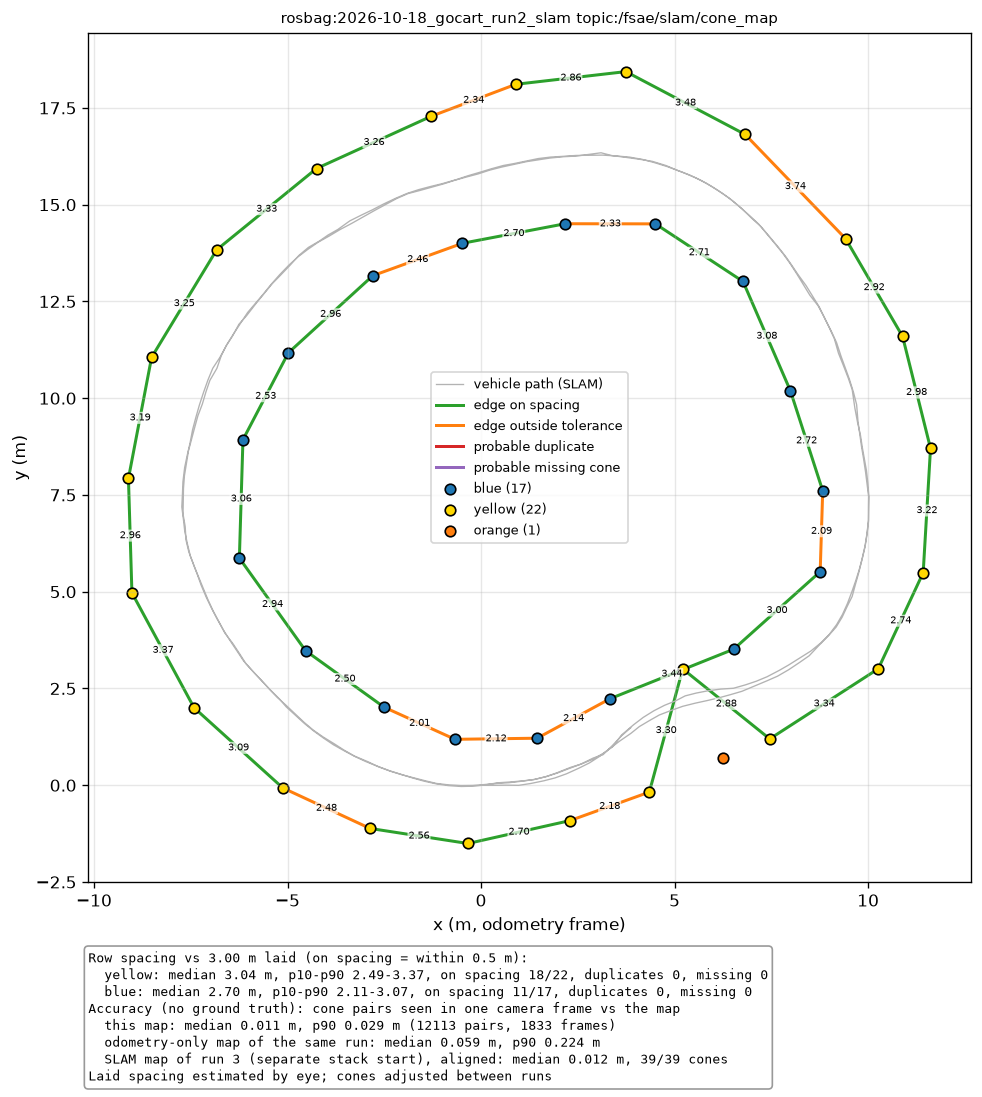
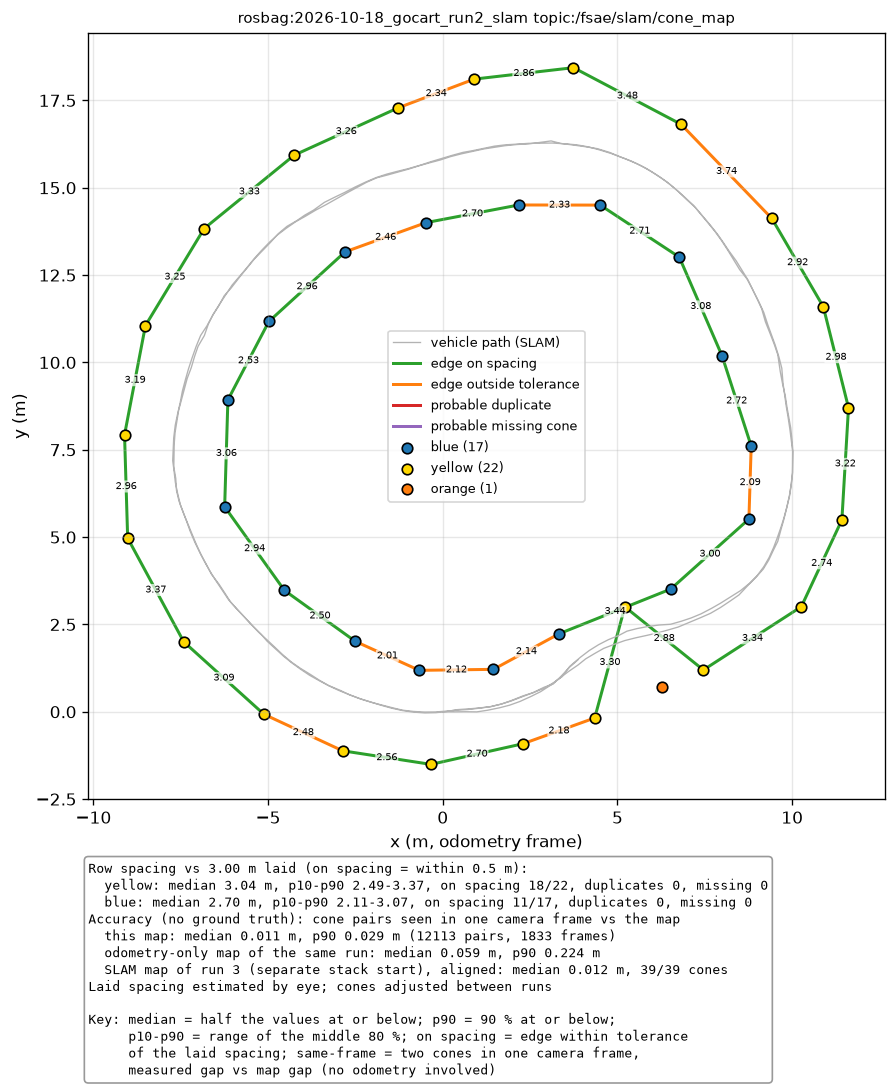
Explain the statistics and map terms used by the cone tools and docs
- Glossary: median, p10/p90, same-frame accuracy, edge, on spacing, duplicate and
  missing cone, odometry, odometry-only map, SLAM, keyframe, cone spacing check.
- debugging_tools (cone spacing check) and offline_guide (rosbag results): a Terms
  list under "How to read".
- Preview results box carries its own key; cone_spacing_check prints one and defines
  the terms in its docstring; same_frame_accuracy documents median and p90.
- Go-kart track: preview regenerated, README defines the terms it uses.

diff --git a/tuner/tools/rosbag_cone_map.py b/tuner/tools/rosbag_cone_map.py
@@ -343,7 +343,9 @@ def same_frame_accuracy(cones, det_bag, topic=DEFAULT_TOPIC, min_range=1.0, max_
     `max_pose_dt`), refined by a small rigid fit onto the map, and associated to map cones
     of the same colour within 0.4 m. The refinement only helps association: pairwise
     distances do not change under a rigid motion, so it cannot flatter the result.
-    Returns {'pairs', 'messages', 'median', 'p90'} or None when nothing could be paired."""
+    Returns {'pairs', 'messages', 'median', 'p90'} or None when nothing could be paired.
+    median: half the pair errors are at or below it. p90: 90 % are at or below it, so it
+    shows how bad the bad pairs get without being set by the single worst one."""
     m = {g: np.array([c[0] for c in cones[g]]).reshape(-1, 2) for g in ('blue', 'yellow')}
     if not len(m['blue']) and not len(m['yellow']):
         return None
@@ -454,6 +456,12 @@ def plot(path_png, cones, stats, title, spacing_reference=None, notes=()):
             ax.plot([], [], '-', color=col, lw=1.8, label=lab)
     box.extend(notes)
     if box:
+        # The box is read on its own (shared as an image), so it carries its own key.
+        box += ['',
+                'Key: median = half the values at or below; p90 = 90 % at or below;',
+                '     p10-p90 = range of the middle 80 %; on spacing = edge within tolerance',
+                '     of the laid spacing; same-frame = two cones in one camera frame,',
+                '     measured gap vs map gap (no odometry involved)']
         # Below the axes, so it never hides cones.
         ax.text(0.0, -0.08, '\n'.join(box), transform=ax.transAxes, fontsize=8, va='top',
                 family='monospace', bbox=dict(boxstyle='round', fc='white', ec='0.6'))

diff --git a/tuner/tools/cone_spacing_check.py b/tuner/tools/cone_spacing_check.py
@@ -7,6 +7,11 @@ compares every edge length with REFERENCE_SPACING_M. Use it on a map rebuilt fro
 
 How to read the result
 ----------------------
+Terms: an *edge* is the line between two neighbouring cones of one row, and its length
+is their gap. *Median* is the middle edge length once sorted (half are shorter). *p10* and
+*p90* are the lengths 10 % and 90 % of edges are at or below, so "p10-p90" is the range the
+middle 80 % fall in. *Median error* is the median length minus the reference.
+
 - **On spacing (within TOLERANCE_M):** the map agrees with the layout there.
 - **Short edge, under DUPLICATE_M:** almost always one cone mapped twice (a drift or
   association failure), not two real cones.
@@ -191,6 +196,8 @@ def main(argv=None):
     path, rows = load_rows(a.map)
     max_edge = MAX_EDGE_FACTOR * a.reference
     print(f'{path}\nreference {a.reference:.2f} m, tolerance {a.tolerance:.2f} m')
+    print('(median: half the edges at or below; p10-p90: range of the middle 80 % of edges; '
+          'error: median minus reference)')
     edges = {}
     records = []
     for c in a.colours:

diff --git a/docs/reference/glossary.md b/docs/reference/glossary.md
@@ -19,19 +19,22 @@ Symbols are as in the code (`e_y`, `e_psi`, `kappa`). Names in `code font` are i
 | CMA-ES | The evolutionary optimiser the offline auto-tuner (`tuner/offline_tuner.py`) uses to search weights. | [offline_guide.md](../guides/offline_guide.md) |
 | Composite score | The single number that ranks a rollout, from 13 normalised metrics (`sim/scoring.py`). Lower is better. Runs that fail land above `CONSTRAINT_FLOOR` (10.0). | [tuning.md](../guides/tuning.md) |
 | Condensing | Eliminating the predicted states from the NMPC's QP so only the inputs remain as variables (a dense QP). | [nmpc.md](../controllers/nmpc.md) |
+| Cone spacing check | `tuner/tools/cone_spacing_check.py`: joins each cone row (blue, yellow) neighbour to neighbour and compares every edge with the spacing the cones were laid at. Also drawn on a rosbag track's preview. | [debugging_tools.md](../guides/debugging_tools.md#cone-spacing-check-tunertoolscone_spacing_checkpy) |
 | Corner factor | The 0 (straight) to 1 (full corner) fraction from the current `|kappa|`, `1 - 1 / (1 + k |kappa|)`, that blends the LTV-QP weights. | [control_mechanisms.md](control_mechanisms.md#corner-factor-scheduler-ltv-qp-weights-follow-the-current-curvature) |
 | Delay compensation | Rolling the measured state forward through commands already issued but not yet reflected in the pose, by `n_delay` steps. | [lmpc.md](../controllers/lmpc.md) |
 | DNF | "Did not finish": a rollout that leaves the track, stalls, hits a run of solver failures, or does not cover `COMPLETION_THRESHOLD` (0.98) of the path. Scored above `CONSTRAINT_FLOOR`. | [tuning.md](../guides/tuning.md) |
-| `du_max` | The hard per-tick slew limit on steering and acceleration commands: 180 degrees/s times `dt`, and 0.6 m/s² per tick. | [control_mechanisms.md](control_mechanisms.md#slew-rate-limit-du_max-identical-on-both-sides-at-180-degs) |
 | `dt` | Control tick period, 0.05 s (20 Hz). | [lmpc.md](../controllers/lmpc.md) |
+| `du_max` | The hard per-tick slew limit on steering and acceleration commands: 180 degrees/s times `dt`, and 0.6 m/s² per tick. | [control_mechanisms.md](control_mechanisms.md#slew-rate-limit-du_max-identical-on-both-sides-at-180-degs) |
+| Duplicate cone (map) | A row edge shorter than 1 m: almost always one physical cone mapped twice (odometry drift or a failed association), flagged red. | [debugging_tools.md](../guides/debugging_tools.md#cone-spacing-check-tunertoolscone_spacing_checkpy) |
 | `e_psi` | Heading error: car yaw minus reference path direction, wrapped to `(-pi, pi]`. | [error_states.md](error_states.md) |
 | `e_v` | Speed error: current speed minus target speed. | [error_states.md](error_states.md) |
 | `e_y` | Lateral error: signed perpendicular distance from the path, positive to the left. | [error_states.md](error_states.md) |
-| FSDS | The AirSim/Unreal 3D simulator (the outer repo): a real physics engine driving a simulated car. The live ROS 2 stack (`fsae_planning`) drives in it. Closer to the real car than the offline rollout, and itself not confirmed accurate. | [integration_guide.md](../fsds/integration_guide.md) |
-| `fsae_autonomous` | The production repo that goes on the real car. It lags the simulation repos by design and receives only deliberate, tested changes. | [offline_live_parity.md](offline_live_parity.md) |
-| `fsae_planning` | The ROS 2 workspace (`ros2/src/fsae_planning/`) holding the live planning and control code and the track data. The simulation-side development tree. | [offline_live_parity.md](offline_live_parity.md) |
+| Edge (cone map) | The straight line between two neighbouring cones of the same row, as the cone spacing check chains them. Its length is the gap between those cones. | [debugging_tools.md](../guides/debugging_tools.md#cone-spacing-check-tunertoolscone_spacing_checkpy) |
 | Frenet frame | Describing the car by distance along the path plus a perpendicular offset, instead of global X, Y. Both controllers measure error this way. | [error_states.md](error_states.md) |
 | Friction ellipse (circle) | A tyre has one shared grip budget: longitudinal force used reduces lateral force available. The plant applies it per wheel. The NMPC hard-constraint version is disabled. | [vehicle_physics.md](vehicle_physics.md) |
+| `fsae_autonomous` | The production repo that goes on the real car. It lags the simulation repos by design and receives only deliberate, tested changes. | [offline_live_parity.md](offline_live_parity.md) |
+| `fsae_planning` | The ROS 2 workspace (`ros2/src/fsae_planning/`) holding the live planning and control code and the track data. The simulation-side development tree. | [offline_live_parity.md](offline_live_parity.md) |
+| FSDS | The AirSim/Unreal 3D simulator (the outer repo): a real physics engine driving a simulated car. The live ROS 2 stack (`fsae_planning`) drives in it. Closer to the real car than the offline rollout, and itself not confirmed accurate. | [integration_guide.md](../fsds/integration_guide.md) |
 | `fsds_simulator/` | The staging mirror of the `fsae_planning` workspace inside this repo. Files present in both must match. It is not a live copy. | [offline_live_parity.md](offline_live_parity.md) |
 | Gauss-Newton SQP | The NMPC's solve method: repeatedly linearise the nonlinear model and solve a QP for a step direction. | [nmpc.md](../controllers/nmpc.md) |
 | Heading-lead profile | A precomputed shaped reference heading that starts the turn early (`psi_target`). LTV-QP only, off by default. | [control_mechanisms.md](control_mechanisms.md#precomputed-shaped-heading-lead-profile-ltv-qp-only-off) |
@@ -39,14 +42,21 @@ Symbols are as in the code (`e_y`, `e_psi`, `kappa`). Names in `code font` are i
 | Inherit sentinel (`-1.0`) | An `nmpc_*` override left at `-1.0` inherits the LTV-QP field of the same name. | [control_mechanisms.md](control_mechanisms.md#which-settings-affect-which-controller) |
 | Jerk cost | A penalty on the second difference of the inputs (`nmpc_rjerk_delta`), which is small for a steady turn and large for a wobble. | [tuning.md](../guides/tuning.md) |
 | `kappa` | Path curvature in 1/m (1 / radius). Positive for a left bend. | [error_states.md](error_states.md) |
+| Keyframe (SLAM) | A pose the SLAM node stores in its graph, added every 0.3 m or 15 degrees of travel rather than every message. Its cone sightings are attached to it. | [offline_guide.md](../guides/offline_guide.md#tracks-rebuilt-from-a-real-vehicle-rosbag) |
 | `launch_all.sh` | The shell script (`ros2/launch_all.sh`) that starts FSDS, the bridge and the ROS 2 nodes. Its shortlist can override dataclass and YAML defaults. | [integration_guide.md](../fsds/integration_guide.md) |
 | LTV-QP (LMPC) | The linear time-varying MPC (`MPCController`): one convex QP per tick against a linear bicycle model in path-error coordinates. | [lmpc.md](../controllers/lmpc.md) |
 | Mechanism | An extra layer on a controller's core solve, enabled and tuned independently, targeting one failure mode. | [control_mechanisms.md](control_mechanisms.md) |
+| Median | The middle value once sorted: half the values are at or below it. Unlike the mean, a few extreme values do not move it. | this page, p10/p90 |
+| Missing cone (map) | A row edge longer than 1.5x the laid spacing: a cone absent from the map, or a real gap in the layout (a start gate), flagged purple. | [debugging_tools.md](../guides/debugging_tools.md#cone-spacing-check-tunertoolscone_spacing_checkpy) |
 | `MPCParams`, `NMPCParams` | The dataclasses (`mpc_params.py`, `nmpc_params.py`) that hold every live tuning weight and flag. `settings/` mirrors them offline. | [offline_live_parity.md](offline_live_parity.md) |
 | NMPC | The nonlinear Frenet-frame MPC (`NMPCController`), selected by `use_nmpc`. | [nmpc.md](../controllers/nmpc.md) |
+| Odometry | The vehicle's own running estimate of its position and heading (on the kart, the ZED camera's visual-inertial odometry). Never corrected by the cones, so it drifts and occasionally jumps. | [offline_guide.md](../guides/offline_guide.md#tracks-rebuilt-from-a-real-vehicle-rosbag) |
+| Odometry-only map | A cone map built by placing every detection with the odometry pose and merging repeats. Inherits every odometry error. | [offline_guide.md](../guides/offline_guide.md#tracks-rebuilt-from-a-real-vehicle-rosbag) |
 | Offline rollout | The headless closed-loop simulation (`sim/rollout/core.py`) driving the 25-state plant. What the auto-tuner and `python -m tuner.validation.recorded_map_rollout` run. It is what other docs mean by "the offline sim". | [offline_guide.md](../guides/offline_guide.md) |
+| On spacing | A row edge within the tolerance (default 0.5 m) of the laid spacing, drawn green. | [debugging_tools.md](../guides/debugging_tools.md#cone-spacing-check-tunertoolscone_spacing_checkpy) |
 | Oracle profile | The precomputed path and speed files for an already-recorded track, used in place of the live planner. | [reference_path_and_speed.md](reference_path_and_speed.md) |
 | OSQP | The QP solver both controllers use. | [lmpc.md](../controllers/lmpc.md) |
+| p10, p90 (percentiles) | p90: 90 % of the values are at or below it, so it describes the bad cases without being set by the single worst one. p10: 10 % are at or below it. "p10-p90" is the range the middle 80 % of values fall in. | this page, Median |
 | Pacejka (MF94) | The Magic Formula tyre force model, an S-shaped curve of force against slip. | [vehicle_physics.md](vehicle_physics.md) |
 | Parity | The rule that the live and offline copies of any planning or control logic, weight, plant constant or scoring constant stay numerically identical, kept by hand because the two trees cannot import each other. | [offline_live_parity.md](offline_live_parity.md) |
 | Plant | The simulated car being controlled (`model/vehicle_physics/`), the ground truth against which controllers are tested. | [vehicle_physics.md](vehicle_physics.md) |
@@ -58,10 +68,12 @@ Symbols are as in the code (`e_y`, `e_psi`, `kappa`). Names in `code font` are i
 | Real-time iteration (RTI) | One SQP iteration per tick, warm-started from the previous tick, so convergence carries across ticks. | [nmpc.md](../controllers/nmpc.md) |
 | Recorded map | A track captured from a real lap (cone map plus derived files), stored in `ros2/src/fsae_planning/tracks/<name>/`. The standard test track is `comp_test_map_3`. | [reference_path_and_speed.md](reference_path_and_speed.md) |
 | Reversal | A steering command that changes sign tick to tick. The reversal penalty targets it. | [control_mechanisms.md](control_mechanisms.md#soft-steering-reversal-penalty-costlier-steering-changes-when-steering-is-near-zero) |
+| Same-frame accuracy | An accuracy check that needs no ground truth: for two cones seen in the same camera frame, the measured distance between them against the same two cones' distance in the map. One frame involves no odometry, so it tests the map's local shape. Reported as median and p90 of the absolute difference. | [offline_guide.md](../guides/offline_guide.md#tracks-rebuilt-from-a-real-vehicle-rosbag) |
 | Saturation (steering) | The share of ticks the steering command sits at the mechanical limit (25 degrees). A key sim-to-real gap metric: about 4.8% offline against 21.1% live. | [simulator_fidelity.md](simulator_fidelity.md) |
 | `settings/` | The offline package of constants (`general`, `noise`, `planner`, `lmpc`, `nmpc`, `solver`, `scoring`). Consumers use `import settings; settings.X` so runtime overrides reach them. | [offline_live_parity.md](offline_live_parity.md) |
 | Sim-to-real gap | The measured difference between offline and live behaviour. Partly explained by FSDS's lateral-acceleration ceiling, partly open. | [simulator_fidelity.md](simulator_fidelity.md) |
 | Slack | A penalised relaxation variable that lets a soft constraint (track boundary) be violated at a cost instead of going infeasible. | [nmpc.md](../controllers/nmpc.md) |
+| SLAM (`cone_landmark_mapper`) | Simultaneous localisation and mapping: `fsae_autonomous`'s node that builds the cone map and corrects the vehicle's pose each time a known cone is re-seen. Corrects slow drift, not sudden jumps. | [offline_guide.md](../guides/offline_guide.md#tracks-rebuilt-from-a-real-vehicle-rosbag) |
 | Slew rate | How fast a signal may change. The steering slew limit is `du_max`. | [control_mechanisms.md](control_mechanisms.md#slew-rate-limit-du_max-identical-on-both-sides-at-180-degs) |
 | Slip angle, slip ratio | Slip angle is the angle between where a tyre points and where it travels (sideways force). Slip ratio is wheel speed against ground speed (forward and backward force). | [vehicle_physics.md](vehicle_physics.md) |
 | Standstill | Near-zero speed, where tyre slip is ill-defined. The NMPC fades tyre force with speed and adds steering damping (`nmpc_standstill_*`). | [nmpc.md](../controllers/nmpc.md) |

diff --git a/docs/guides/offline_guide.md b/docs/guides/offline_guide.md
@@ -303,7 +303,7 @@ Two ways to build the map:
 
 - **Method:** each detection on `/cone_detection_fused` is placed in the odometry frame with the `car_pose` carried in the same message, then repeats are clustered per colour (median position, at least `--min-obs` sightings). Only detections 1-7 m away are used, because the camera's range error grows with the square of distance.
 - **Output:** `--name <base>` writes `<TRACKS_DIR>/<base>_<bag date>/cone_map.json`, with `source: "rosbag:..."`, and next to it a preview named after the run, `preview_<bag folder>.png`.
-- **The preview is automatic.** It shows the cones, the vehicle path, every row edge checked against the laid spacing (`--spacing-reference`, default 3.0 m, the `cone_spacing_check` default) and a results box:
+- **The preview is automatic.** Terms in its results box (median, p10-p90, p90, on spacing, same-frame accuracy) are defined under "How to read these numbers" below and in the [glossary](../reference/glossary.md). It shows the cones, the vehicle path, every row edge checked against the laid spacing (`--spacing-reference`, default 3.0 m, the `cone_spacing_check` default) and a results box:
   - spacing per row (median, on-spacing count, duplicates, missing cones);
   - **accuracy without ground truth:** distances between two cones seen in the same camera frame against the same two cones in the map (no odometry involved). In SLAM mode the odometry-only map of the same run is scored too;
   - any `--note "<line>"` given (repeatable), for results measured elsewhere.
@@ -369,6 +369,12 @@ python3 -m tuner.tools.raceline_optimizer gokart_night_loop_20261018 --mode cent
 | 4 (drifts about 1 m per lap) | 107 cones (rings) | 41 cones, one loop; 0.15 m median from SLAM run 2 | not comparable: the odometry map's rings break the association |
 
 How to read these numbers:
+- **Terms** (also in [glossary.md](../reference/glossary.md)):
+  - **Median:** the middle value once sorted; half the values are at or below it.
+  - **p90:** 90 % of values are at or below it. It shows how bad the bad cases get without being set by the single worst one.
+  - **Same-frame pair error:** for two cones seen in the same camera frame, the distance measured in that frame against the same two cones' distance in the map. No odometry is involved, so it tests the map itself.
+  - **Run-to-run agreement:** the distance from each cone in one run's map to its counterpart in another run's map, after shifting and rotating one map onto the other.
+  - **Odometry-only map:** detections placed with the vehicle's uncorrected position estimate; **SLAM map:** the SLAM node's map, which corrects that estimate with re-seen cones.
 - **Same-frame pair error** measures local shape only: a map can pass it and still be bent overall.
 - **Run-to-run agreement** mixes map error with real cone moves: the cones were adjusted between runs and the orange cones were removed before run 4, so only within one lap are the cones known to be fixed. Run 4's 0.15 m is an upper bound on SLAM error, not a measurement of it.
 - **SLAM fails on odometry jumps,** not slow drift: it has no relocalisation, so after a jump re-seen cones fail its gate and are added again (run 1).

diff --git a/docs/guides/debugging_tools.md b/docs/guides/debugging_tools.md
@@ -190,6 +190,12 @@ python -m tuner.tools.cone_spacing_check <track> --plot spacing.png --csv edges.
 | `--width-reference` | off | also prints each yellow cone's distance to the nearest blue one, a lower bound on track width |
 
 How to read it:
+- **Terms** (also in [glossary.md](../reference/glossary.md)):
+  - **Edge:** the line between two neighbouring cones in the same row; its length is their gap.
+  - **On spacing:** an edge within the tolerance of the reference (green).
+  - **Median:** the middle edge length once sorted; half the edges are shorter.
+  - **p10-p90:** the range the middle 80 % of edges fall in (10 % are shorter than p10, 10 % longer than p90), so one odd edge does not set it.
+  - **Median error:** median edge length minus the reference. Negative means the map's row is tighter than the layout.
 - **Median error** is the map against the layout. A spread inside tolerance is usually hand placement, not map error. Two maps of the same layout with the same edge lengths confirm placement.
 - **The reference is only as good as the layout.** A spacing estimated by eye checks consistency, not absolute accuracy; tape a few neighbouring cones for a real reference.
 - **A chain that bends into the other row** points at a cone with the wrong colour, which the planner reads as the wrong boundary.

diff --git a/fsds_simulator/tracks/gokart_night_loop_20261018/README.md b/fsds_simulator/tracks/gokart_night_loop_20261018/README.md
@@ -13,6 +13,8 @@ script's default map. Load it by name.
 
 ## How far to trust it
 
+Terms: *median* = half the values at or below it; *p90* = 90 % at or below it; *same-frame* = two cones seen in one camera frame, their measured gap against the map's gap (no odometry involved). More in `fsae_MPCTest/docs/reference/glossary.md`.
+
 - **Local shape: about 1 cm.** Distances between two cones seen in the same camera frame
   match the map to 0.011 m median (0.03 m p90). The odometry-only map of the same run
   scored 0.059 m (0.22 m p90), so it was replaced.
